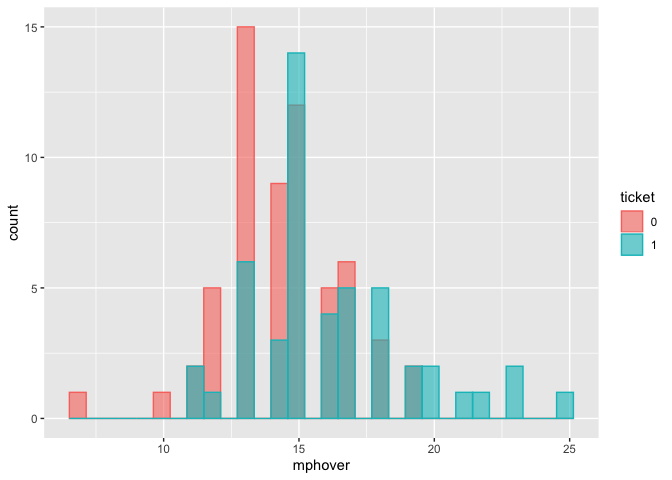
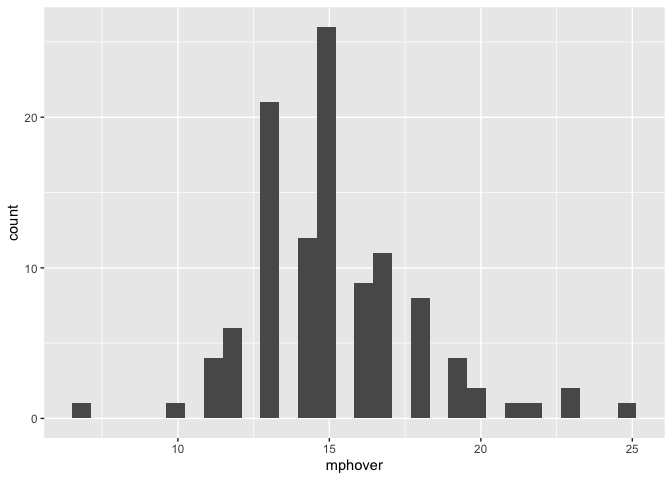
edits

diff --git a/intro_stats.md b/intro_stats.md
@@ -8,6 +8,7 @@ Sara Stoudt (@sastoudt)
 Find out more about the tidyverse [here](https://www.tidyverse.org/).
 
 ``` r
+#install.packages("tidyverse")
 library(tidyverse)
 ```
 
@@ -26,12 +27,12 @@ Other ways to [load data](https://readr.tidyverse.org/):
   - [Google
     sheets](https://cran.r-project.org/web/packages/googlesheets/googlesheets.pdf)
   - Fixed width: `read_fwf()`
-  - Delimited files: `read_delim()`
+  - Delimited files:
+    `read_delim()`
 
 ## Look at data
 
 ``` r
-#View(boston) ## this is a comment
 names(boston)
 ```
 
@@ -105,6 +106,10 @@ str(boston)
     ##   ..   minority = col_double(),
     ##   ..   female = col_double()
     ##   .. )
+
+``` r
+#View(boston) ## this is a comment
+```
 
 ## Summaries of Continuous Variables
 
@@ -288,15 +293,50 @@ boston <- boston %>% mutate(minority = case_when(
   race != "W" ~ 1
 ))
 
+boston %>% select(minority) %>% table()
+```
+
+    ## .
+    ##  0  1 
+    ## 91 19
+
+``` r
 ## recode sex --> female
 
 boston <- boston %>% mutate(female = case_when(
   sex == "F" ~ 1,
   sex == "M" ~ 0
 )) ## U will become NA
+
+boston %>% select(female) %>% table()
 ```
 
+    ## .
+    ##  0  1 
+    ## 63 46
+
+``` r
+boston <- boston %>% mutate(mphover = mph - zone)
+
+boston %>% select(mphover) %>% summary()
+```
+
+    ##     mphover     
+    ##  Min.   : 7.00  
+    ##  1st Qu.:13.00  
+    ##  Median :15.00  
+    ##  Mean   :15.17  
+    ##  3rd Qu.:17.00  
+    ##  Max.   :25.00
+
 ## [Plots](https://ggplot2.tidyverse.org/)
+
+``` r
+ggplot(boston, aes(x = mphover)) +
+  geom_histogram(position = "identity")
+```
+
+![](intro_stats_files/figure-gfm/unnamed-chunk-10-1.png)<!-- -->
 
 ``` r
 ## mph over by ticket
@@ -304,7 +344,7 @@ ggplot(boston, aes(x = mphover, color = ticket, fill = ticket)) +
   geom_histogram(alpha = 0.6, position = "identity")
 ```
 
-![](intro_stats_files/figure-gfm/unnamed-chunk-10-1.png)<!-- -->
+![](intro_stats_files/figure-gfm/unnamed-chunk-10-2.png)<!-- -->
 
 ``` r
 ## three variables
@@ -312,12 +352,14 @@ ggplot(boston, aes(x = mphover, color = ticket, fill = ticket)) +
   geom_histogram(alpha = 0.6, position = "identity") + facet_wrap(~female)
 ```
 
-![](intro_stats_files/figure-gfm/unnamed-chunk-10-2.png)<!-- -->
+![](intro_stats_files/figure-gfm/unnamed-chunk-10-3.png)<!-- -->
 
 ## Statistical Tests
 
 **Is the average miles per hour over the speed limit different for
 ticket and non-tickets?**
+
+*difference in means test*
 
 ``` r
 t.test(mphover ~ ticket, data = boston)
@@ -335,41 +377,67 @@ t.test(mphover ~ ticket, data = boston)
     ## mean in group 0 mean in group 1 
     ##        14.32787        16.22449
 
-[Assumptions](https://en.wikipedia.org/wiki/Student%27s_t-test#Assumptions)
-
-TLDR
+*Assumptions*
 
   - large sample size (at least \>30)
   - independent samples (independence between drivers)
 
-**Is the probability of getting a ticket for a female different than the
-probability of getting a ticket for a non-female?**
+*Null hypothesis:* There is no significant difference in the average
+miles per hour over the speed limit for tickets and non-tickets.
+
+*Alternative hypothesis:* There is a significant difference in the
+average miles per hour over the speed limit for tickets and non-tickets.
+
+*Interpretation:* If the average miles per hour over the speed limit was
+the same for tickets and non-tickets, we would get a difference in means
+equal to or more extreme to the one we see here with probablility 0.0005
+(p-value). This is unlikely, providing evidence for the hypothesis that
+there is a difference.
+
+*Healthy skepticism*: Is the difference practically significant?
+
+**Is the proportion of females getting tickets different than the
+proportion of males getting tickets?**
+
+*difference in proportions test*
 
 ``` r
-prop.test(table(boston$ticket, boston$female), correct=FALSE) 
+prop.test(table(boston$ticket, boston$female)) 
 ```
 
     ## 
-    ##  2-sample test for equality of proportions without continuity
-    ##  correction
+    ##  2-sample test for equality of proportions with continuity correction
     ## 
     ## data:  table(boston$ticket, boston$female)
-    ## X-squared = 3.3275, df = 1, p-value = 0.06813
+    ## X-squared = 2.6543, df = 1, p-value = 0.1033
     ## alternative hypothesis: two.sided
     ## 95 percent confidence interval:
-    ##  -0.355804961  0.008866185
+    ##  -0.3743424  0.0274036
     ## sample estimates:
     ##    prop 1    prop 2 
     ## 0.5000000 0.6734694
 
-Assumptions
+*Assumptions*
 
   - observations are random sample of population
   - independent observations
-  - have at least 10 successes and 10 failures.
+  - have at least 10 successes (ticket) and 10 failures (no ticket)
+
+*Null hypothesis:* There is no significant difference in proportion of
+males and females who got tickets.
+
+*Alternative hypothesis:* There is a significant difference in
+proportion of males and females who got tickets.
+
+*Interpretation:* If the proportion of males and females who got tickets
+were the same, we would get a difference in proportions equal to or more
+extreme to the one we see here with probablility 0.068 (p-value). This
+is bigger than a typical cutoff used (0.05), providing less evidence for
+the hypothesis that there is a difference.
 
 *Healthy skepticism*: What if females were more likely to drive during
-the day and tickets are more likely to be given out at night?
+the day and tickets are more likely to be given out at night? Also what
+is so magical about the 0.05 p-value cut-off?
 
 To deal with this kind of thing stick around for [Linear
 Regression](https://ireapps.github.io/nicar-2020-schedule#20200308_stats_2_linear_regression_repeat_1098_all).
